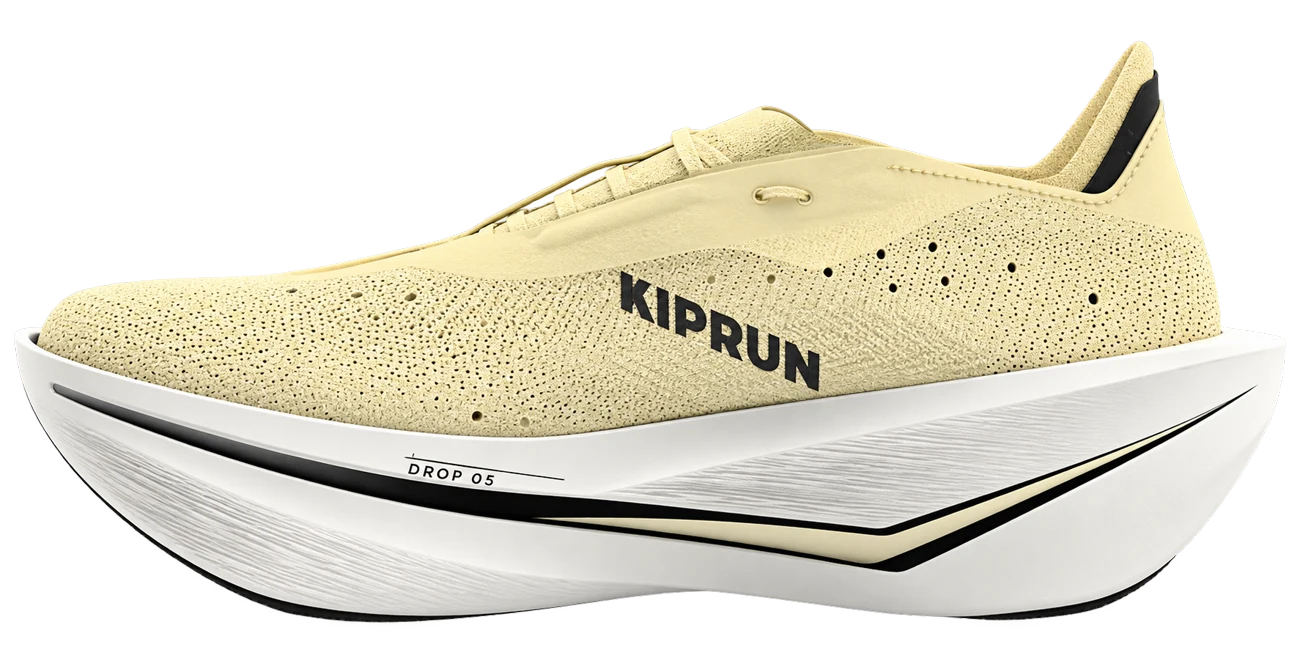
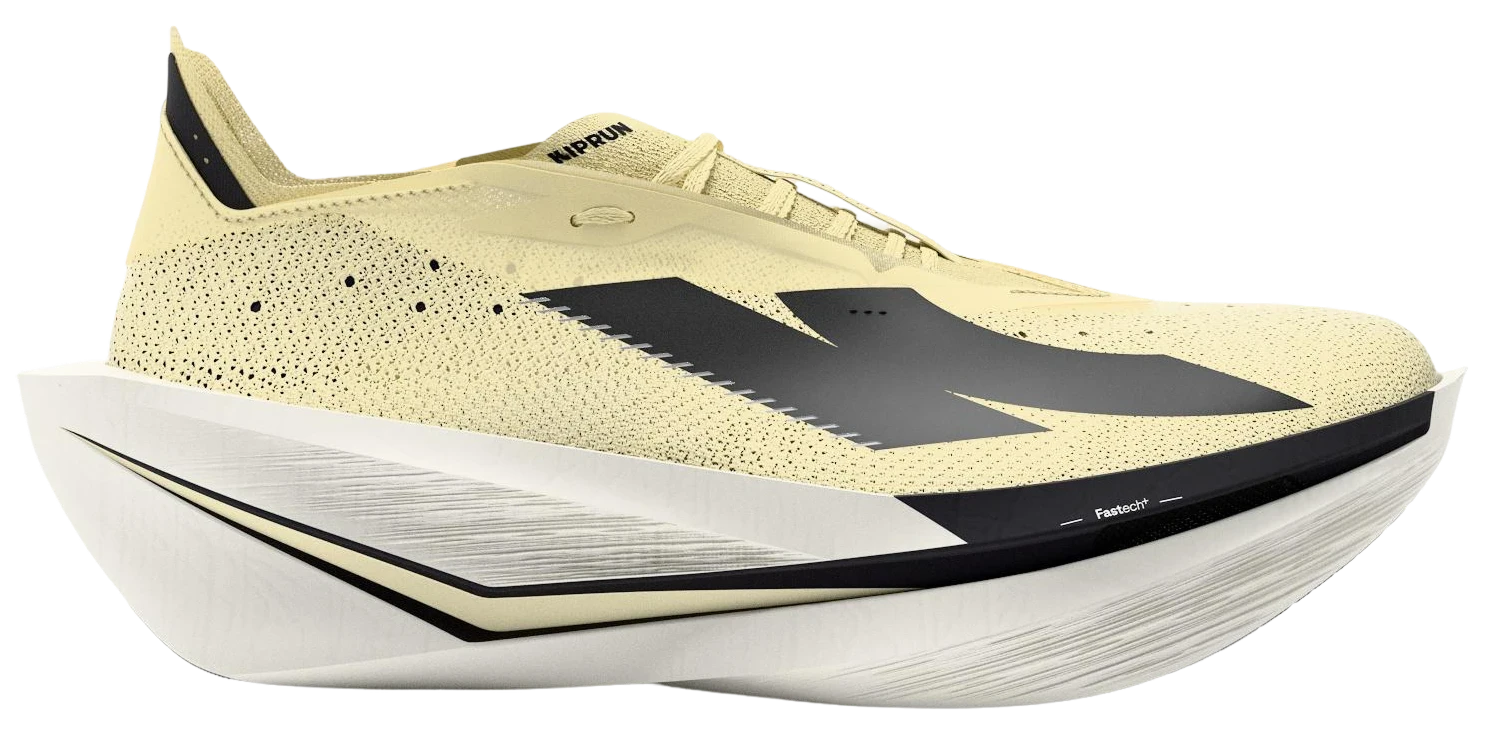
New Kipstorm image, feature names only on phones, contour Shop the Range button
- Kipstorm row uses the supplied transparent side profile (1494x741), unmirrored
- Phones: the series rows keep the three feature names and drop the detail lines
- Shop the Range (Figma 44:597): dark tile with a slice of contour map and a blue
  waypoint dot ahead of the label; on hover the map drifts and the dot lights up

diff --git a/styles.css b/styles.css
@@ -143,6 +143,14 @@ ul{list-style:none}
 .bracket > i:nth-of-type(4){left:0;bottom:0;border-width:0 0 .8px .8px}
 
 .cta{left:84.23%;top:86.92%;width:max(12.22%,150px);height:max(5%,39px)}
+/* Figma 44:597: a dark tile with a slice of contour map inside it, a blue waypoint dot on the left */
+.cta{background:#0b0b0b;overflow:hidden}
+.cta__terrain{position:absolute;left:-2.75%;top:-110.26%;width:102.2%;height:343.3%;max-width:none;object-fit:cover;pointer-events:none;
+  transition:transform 700ms var(--ease-out)}
+/* the dot rides just ahead of the label, so it stays with it at any button width */
+.cta__dot{position:relative;flex:0 0 auto;width:4px;height:4px;margin-right:10px;border-radius:50%;background:#13348A;pointer-events:none;
+  transition:background-color 200ms ease,transform 200ms var(--ease-out)}
+.cta span{position:relative}
 .cta span{font-family:var(--condensed);font-weight:700;font-size:max(11px,.8889cqi);letter-spacing:.06em;text-transform:uppercase;white-space:nowrap}
 
 /* sits on the campaign's bottom-right corner (its top 50.26% of the height + 353/707 of 47.72% of the width) */
@@ -159,6 +167,8 @@ ul{list-style:none}
   .bracket:hover > i:nth-of-type(3){transform:translate(3px,3px)}
   .bracket:hover > i:nth-of-type(4){transform:translate(-3px,3px)}
   .campaign:hover img{transform:scale(1.03)}
+  .cta:hover .cta__terrain{transform:translate(-4%,6%) scale(1.08)}
+  .cta:hover .cta__dot{background:var(--route);transform:scale(1.5)}
 }
 
 /* ══ entrance: one orchestrated reveal, ~1.5s, marketing-paced ══
@@ -215,6 +225,8 @@ ul{list-style:none}
   .intro,.cta,.scroll{animation-delay:160ms}
   .pill,.bracket,.bracket > i,.campaign img{transition-property:background-color,color}
   .picture img,.picture img.is-on{transform:none;transition:none}
+  .cta__terrain,.cta__dot{transition:none}
+  .cta:hover .cta__terrain,.cta:hover .cta__dot{transform:none}
   .pill:active,.bracket:active{transform:none}
 }
 
@@ -300,7 +312,6 @@ html{scroll-padding-top:24px}
 
 .row__shoe{margin:0;display:grid;place-items:center}
 .row__shoe img{width:100%;height:auto;transition:transform 600ms var(--ease-out),opacity 600ms var(--ease-out)}
-.row__shoe--flip img{scale:-1 1}   /* Figma mirrors the Kipstorm so it runs into the row */
 
 .row__body{display:flex;flex-direction:column;min-height:335.7px}
 .row__tag{font-family:var(--pixel);font-size:14.404px;line-height:17.285px;letter-spacing:.02em;text-transform:uppercase;color:var(--line)}
@@ -391,6 +402,11 @@ html{scroll-padding-top:24px}
   .row__buy{display:grid;grid-template-columns:1fr 1fr;gap:12px 10px;margin-top:18px}
   .row__price{grid-column:1 / -1;min-width:0}
   .tick{justify-content:center;min-height:44px;padding:0 12px;font-size:12px}
+  /* phones: the feature names only, the detail lines are too much at this size */
+  .row__usps{row-gap:0}
+  .row__usps li{padding:10px 0}
+  .row__usps p{display:none}
+  .row__n{grid-row:auto}
 }
 
 /* ═══════════════════════════════════════════════════════════════════

diff --git a/index.html b/index.html
@@ -77,6 +77,7 @@
   <p class="intro">Five Kiprun series, engineered by Decathlon for every kilometre between a first 5K and race day.</p>
 
   <a class="bracket cta" href="https://www.decathlon.in/c/running-shoes-25400" target="_blank" rel="noopener">
+    <img class="cta__terrain" src="assets/cta-terrain.svg" alt="" aria-hidden="true"><b class="cta__dot" aria-hidden="true"></b>
     <span>&gt;_SHOP_THE_RANGE</span><i></i><i></i><i></i><i></i>
   </a>
 
@@ -97,8 +98,8 @@
     <ol class="series__list">
       <li class="row row--shoe-left" id="kipstorm" aria-labelledby="kipstorm-name">
         <i class="row__corner" aria-hidden="true"></i><i class="row__corner" aria-hidden="true"></i><i class="row__corner" aria-hidden="true"></i><i class="row__corner" aria-hidden="true"></i>
-        <figure class="row__shoe row__shoe--flip">
-          <img src="assets/series/kipstorm.webp" width="1300" height="650" alt="Kiprun Kipstorm Elite carbon race shoe, yellow" loading="lazy" decoding="async">
+        <figure class="row__shoe">
+          <img src="assets/series/kipstorm.webp" width="1494" height="741" alt="Kiprun Kipstorm Elite carbon race shoe, yellow" loading="lazy" decoding="async">
         </figure>
         <div class="row__body">
           <p class="row__tag">Carbon race shoe</p>
